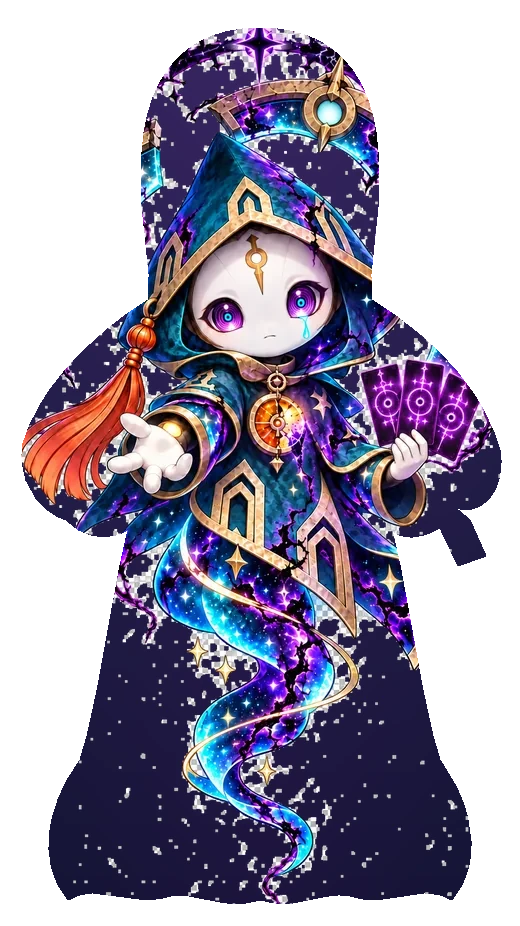
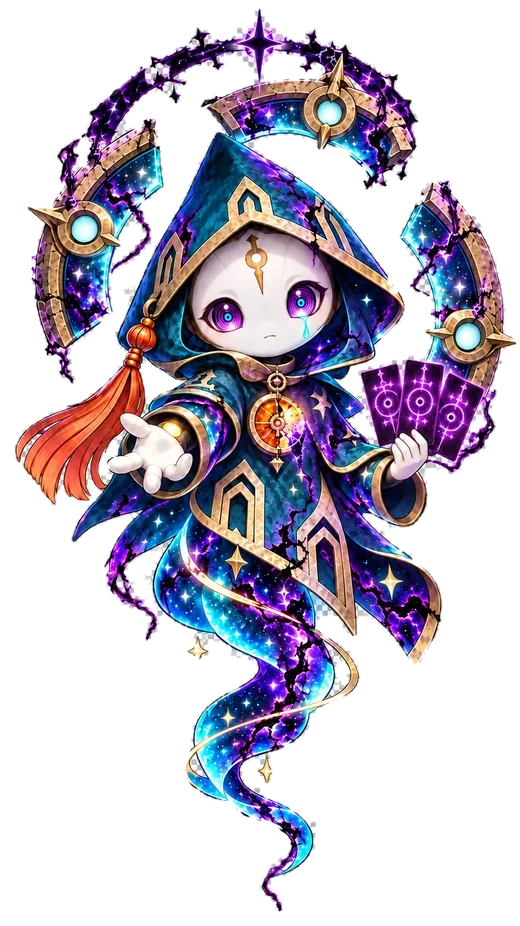
v207: オルビィ切り抜き作り直し（ゴミ除去・本来の輪郭）、顔ピース最後、進捗移行

diff --git a/index.html b/index.html
@@ -3264,7 +3264,8 @@ function TutorialScreen({pendingDiff,onFinish,onExit,trackNum,toggleMusic,coachN
 
 
 // ── MenuScreen ──
-const APP_VER='v206'; // v206(2026/09/14): 主役のピース（顔）は最後に出るように。late 指定がなければ中央上を含むピースを最後に回す
+const APP_VER='v207'; // v207(2026/09/14): オルビィの切り抜きを元画像から作り直し（白いゴミ・縁の除去、キャラ本来の輪郭でシルエット・6ピース・完成画像を統一）。顔ピースは最後。旧進捗は枚数を引き継ぎ
+// const APP_VER='v206'; // v206(2026/09/14): 主役のピース（顔）は最後に出るように。late 指定がなければ中央上を含むピースを最後に回す
 // const APP_VER='v205'; // v205(2026/09/14): パネル選択画面（ホーム「パズル」→好きなステージを選ぶ、進捗と獲得形が見える）。同梱素材 tenkuru_puzzle_6 を STAGE 2 として追加（3×2の1枚絵、薄い枠つき表示）
 // const APP_VER='v204'; // v204(2026/09/14): v202で誤って消したパネル画面のCSS（ピース配置・落下・ボタン・BOSS表示）を復旧
 // const APP_VER='v203'; // v203(2026/09/14): PWA対応（manifest.json・アイコン・全画面表示）。ホーム画面に追加でアプリとして起動
@@ -4139,24 +4140,27 @@ const PANELS=[
     {id:'piece_06',x:963,y:443,w:485,h:643,path:'M 965 543 L 965 792 L 971 791 L 982 781 L 995 773 L 1016 772 L 1031 778 L 1040 786 L 1046 796 L 1049 806 L 1049 822 L 1044 836 L 1035 847 L 1023 854 L 1016 856 L 995 855 L 986 850 L 971 837 L 965 836 L 965 1085 L 1447 1085 L 1447 543 L 1228 543 L 1227 539 L 1245 515 L 1248 503 L 1247 490 L 1241 476 L 1235 469 L 1221 461 L 1212 459 L 1195 460 L 1183 465 L 1172 475 L 1166 488 L 1165 508 L 1167 514 L 1173 524 L 1184 536 L 1186 541 L 1185 543 Z'}
   ]},
   // v198 1ステージ＝道中6戦（ピース6枚）＋ボス1戦。絵に描かれたキャラがボス
-  // v199 ver2：ピースの形を作り直した（6枚の外周がキャラのシルエット：大きなフード／横に広がる袖／片手のカード／煙のように流れる裾）
-  //      ピース番号の意味が変わるので保存キーを ver2 に上げた（ver1の進捗は残るが使わない）。仮素材：既存のオルビィ立ち絵
-  {id:'panel_03',ver:2,dir:'img/panel_03/',w:520,h:926,bossName:'オルビィ',
-   sil:'M 260.0 28.0 L 243.1 28.9 L 227.4 31.5 L 212.9 35.8 L 199.6 41.9 L 187.7 49.6 L 177.0 59.0 L 167.7 70.1 L 159.7 82.8 L 153.1 97.2 L 148.0 113.2 L 144.2 130.8 L 141.4 158.6 L 141.7 204.3 L 149.1 274.7 L 148.0 300.0 L 123.5 316.6 L 105.1 331.1 L 81.2 352.9 L 64.6 370.9 L 49.6 390.3 L 40.8 403.9 L 29.7 425.2 L 22.9 443.8 L 21.5 459.7 L 25.8 479.8 L 36.0 498.2 L 47.7 510.2 L 58.3 516.9 L 66.0 520.0 L 78.4 530.0 L 92.1 535.3 L 100.6 536.5 L 111.5 535.9 L 119.1 534.1 L 128.0 530.0 L 119.6 567.2 L 97.3 689.3 L 87.1 735.8 L 80.0 760.0 L 66.3 781.5 L 58.2 799.1 L 52.4 817.5 L 50.0 830.0 L 48.9 848.7 L 51.3 866.9 L 57.5 884.1 L 68.0 900.0 L 79.9 894.7 L 91.8 892.9 L 146.2 899.9 L 160.2 898.6 L 173.7 895.4 L 184.3 895.0 L 221.9 902.4 L 233.3 903.6 L 245.9 903.0 L 260.0 900.0 L 274.1 903.0 L 290.6 903.4 L 325.6 896.4 L 339.2 894.9 L 350.0 896.0 L 364.6 899.4 L 378.3 899.7 L 424.2 892.9 L 440.1 894.7 L 452.0 900.0 L 462.5 884.1 L 468.7 866.9 L 470.7 854.8 L 471.1 842.5 L 467.6 817.5 L 464.0 805.2 L 456.6 787.2 L 440.0 760.0 L 432.9 735.8 L 422.7 689.3 L 400.4 567.2 L 392.0 530.0 L 400.1 535.6 L 411.5 537.2 L 425.2 534.8 L 440.0 528.0 L 458.0 566.0 L 486.0 556.0 L 470.0 520.0 L 452.0 505.0 L 459.6 509.0 L 471.2 509.3 L 480.1 505.9 L 488.4 499.4 L 495.1 489.8 L 499.6 477.3 L 501.1 461.9 L 500.0 450.0 L 494.2 432.9 L 482.8 408.9 L 473.6 393.9 L 457.9 372.9 L 440.6 353.9 L 422.1 336.7 L 396.8 316.7 L 372.0 300.0 L 370.9 274.7 L 378.3 204.3 L 378.6 158.6 L 375.8 130.8 L 372.0 113.2 L 366.9 97.2 L 360.3 82.8 L 352.3 70.1 L 343.0 59.0 L 332.3 49.6 L 320.4 41.9 L 307.1 35.8 L 292.6 31.5 L 276.9 28.9 Z',
+  // v207 ver3：オルビィの元画像から白いゴミと縁を落とした透過を作り、その輪郭で6分割（フード先端・顔・手とカード・流れる裾が輪郭に出る）
+  //      顔のピース(2)は最後。ver2 の進捗は枚数だけ引き継ぐ（pzState の移行）
+  {id:'panel_03',ver:3,migrateFrom:2,dir:'img/panel_03/',w:520,h:926,bossName:'オルビィ',late:[2],
+   sil:'M 258.0 8.0 L 254.0 11.0 L 256.0 20.0 L 246.0 29.0 L 238.0 27.0 L 236.0 29.0 L 236.0 36.0 L 233.0 35.0 L 229.0 39.0 L 226.0 38.0 L 224.0 40.0 L 220.0 40.0 L 217.0 38.0 L 213.0 40.0 L 211.0 38.0 L 210.0 33.0 L 207.0 30.0 L 201.0 30.0 L 197.0 27.0 L 196.0 33.0 L 190.0 38.0 L 188.0 42.0 L 192.0 45.0 L 191.0 46.0 L 181.0 46.0 L 176.0 48.0 L 172.0 53.0 L 166.0 54.0 L 161.0 58.0 L 158.0 58.0 L 156.0 56.0 L 150.0 56.0 L 150.0 64.0 L 148.0 67.0 L 139.0 66.0 L 139.0 69.0 L 134.0 75.0 L 130.0 76.0 L 130.0 78.0 L 120.0 87.0 L 113.0 90.0 L 106.0 99.0 L 99.0 102.0 L 94.0 109.0 L 89.0 111.0 L 91.0 120.0 L 86.0 128.0 L 86.0 131.0 L 81.0 134.0 L 81.0 137.0 L 90.0 144.0 L 88.0 148.0 L 89.0 152.0 L 87.0 154.0 L 86.0 165.0 L 83.0 167.0 L 77.0 165.0 L 77.0 158.0 L 79.0 154.0 L 75.0 152.0 L 74.0 149.0 L 77.0 147.0 L 80.0 141.0 L 79.0 138.0 L 72.0 139.0 L 67.0 145.0 L 59.0 150.0 L 57.0 157.0 L 62.0 164.0 L 59.0 180.0 L 61.0 183.0 L 63.0 182.0 L 65.0 184.0 L 63.0 189.0 L 59.0 192.0 L 60.0 195.0 L 57.0 196.0 L 53.0 201.0 L 52.0 207.0 L 27.0 207.0 L 29.0 211.0 L 43.0 222.0 L 41.0 235.0 L 37.0 239.0 L 38.0 242.0 L 36.0 253.0 L 31.0 256.0 L 31.0 259.0 L 34.0 260.0 L 34.0 265.0 L 30.0 269.0 L 32.0 275.0 L 34.0 276.0 L 31.0 278.0 L 31.0 280.0 L 35.0 288.0 L 35.0 307.0 L 38.0 319.0 L 40.0 321.0 L 42.0 333.0 L 47.0 344.0 L 44.0 348.0 L 45.0 354.0 L 47.0 356.0 L 55.0 354.0 L 59.0 357.0 L 59.0 374.0 L 61.0 378.0 L 66.0 378.0 L 70.0 383.0 L 73.0 383.0 L 75.0 376.0 L 68.0 368.0 L 68.0 366.0 L 71.0 363.0 L 71.0 359.0 L 67.0 357.0 L 71.0 350.0 L 70.0 346.0 L 73.0 345.0 L 76.0 341.0 L 78.0 341.0 L 81.0 337.0 L 85.0 337.0 L 88.0 333.0 L 92.0 333.0 L 93.0 329.0 L 101.0 322.0 L 99.0 318.0 L 113.0 311.0 L 114.0 305.0 L 111.0 303.0 L 111.0 286.0 L 109.0 285.0 L 109.0 274.0 L 111.0 274.0 L 120.0 265.0 L 127.0 264.0 L 130.0 260.0 L 134.0 259.0 L 136.0 256.0 L 139.0 256.0 L 140.0 252.0 L 145.0 248.0 L 145.0 246.0 L 152.0 243.0 L 151.0 228.0 L 148.0 223.0 L 144.0 220.0 L 144.0 214.0 L 140.0 208.0 L 141.0 202.0 L 138.0 200.0 L 140.0 198.0 L 144.0 200.0 L 150.0 199.0 L 151.0 196.0 L 164.0 185.0 L 162.0 175.0 L 163.0 168.0 L 160.0 164.0 L 160.0 147.0 L 156.0 144.0 L 156.0 139.0 L 158.0 137.0 L 157.0 130.0 L 155.0 128.0 L 156.0 120.0 L 153.0 118.0 L 145.0 118.0 L 140.0 127.0 L 140.0 130.0 L 130.0 127.0 L 127.0 129.0 L 125.0 124.0 L 125.0 115.0 L 134.0 106.0 L 135.0 102.0 L 139.0 101.0 L 143.0 95.0 L 151.0 90.0 L 154.0 90.0 L 156.0 92.0 L 160.0 90.0 L 166.0 94.0 L 169.0 93.0 L 169.0 97.0 L 171.0 100.0 L 177.0 103.0 L 180.0 98.0 L 180.0 94.0 L 176.0 91.0 L 176.0 85.0 L 184.0 85.0 L 186.0 83.0 L 185.0 80.0 L 179.0 77.0 L 179.0 74.0 L 184.0 72.0 L 193.0 65.0 L 199.0 66.0 L 205.0 62.0 L 208.0 66.0 L 211.0 64.0 L 215.0 69.0 L 218.0 70.0 L 224.0 64.0 L 223.0 56.0 L 225.0 54.0 L 230.0 55.0 L 235.0 52.0 L 236.0 55.0 L 241.0 56.0 L 242.0 61.0 L 246.0 62.0 L 249.0 67.0 L 252.0 67.0 L 253.0 72.0 L 257.0 74.0 L 257.0 78.0 L 253.0 80.0 L 252.0 84.0 L 239.0 88.0 L 221.0 97.0 L 215.0 96.0 L 213.0 98.0 L 205.0 99.0 L 202.0 101.0 L 200.0 105.0 L 201.0 107.0 L 204.0 107.0 L 211.0 112.0 L 211.0 115.0 L 220.0 124.0 L 222.0 130.0 L 215.0 133.0 L 214.0 137.0 L 211.0 139.0 L 210.0 144.0 L 207.0 146.0 L 205.0 155.0 L 198.0 162.0 L 198.0 168.0 L 196.0 169.0 L 195.0 175.0 L 192.0 179.0 L 192.0 182.0 L 189.0 185.0 L 186.0 195.0 L 182.0 200.0 L 182.0 203.0 L 179.0 205.0 L 178.0 209.0 L 173.0 214.0 L 173.0 217.0 L 162.0 234.0 L 160.0 240.0 L 154.0 245.0 L 155.0 247.0 L 153.0 253.0 L 146.0 264.0 L 146.0 267.0 L 143.0 271.0 L 142.0 277.0 L 139.0 280.0 L 138.0 284.0 L 130.0 285.0 L 128.0 288.0 L 123.0 289.0 L 124.0 293.0 L 129.0 295.0 L 127.0 302.0 L 128.0 307.0 L 124.0 319.0 L 119.0 325.0 L 118.0 329.0 L 114.0 332.0 L 118.0 345.0 L 120.0 346.0 L 120.0 348.0 L 122.0 347.0 L 126.0 352.0 L 122.0 360.0 L 122.0 364.0 L 118.0 366.0 L 116.0 372.0 L 102.0 386.0 L 94.0 392.0 L 90.0 393.0 L 86.0 398.0 L 80.0 402.0 L 67.0 404.0 L 65.0 408.0 L 56.0 412.0 L 51.0 411.0 L 47.0 415.0 L 36.0 420.0 L 33.0 424.0 L 29.0 425.0 L 26.0 429.0 L 22.0 430.0 L 15.0 445.0 L 14.0 453.0 L 16.0 460.0 L 18.0 462.0 L 22.0 459.0 L 23.0 460.0 L 22.0 464.0 L 26.0 473.0 L 39.0 486.0 L 52.0 505.0 L 55.0 504.0 L 55.0 497.0 L 62.0 485.0 L 65.0 493.0 L 69.0 497.0 L 73.0 497.0 L 78.0 500.0 L 89.0 500.0 L 91.0 496.0 L 89.0 489.0 L 87.0 487.0 L 89.0 480.0 L 91.0 480.0 L 93.0 485.0 L 101.0 492.0 L 94.0 501.0 L 87.0 505.0 L 87.0 508.0 L 77.0 520.0 L 71.0 537.0 L 72.0 541.0 L 76.0 541.0 L 85.0 532.0 L 99.0 523.0 L 102.0 523.0 L 114.0 517.0 L 120.0 517.0 L 121.0 515.0 L 129.0 514.0 L 132.0 516.0 L 132.0 519.0 L 116.0 538.0 L 116.0 541.0 L 109.0 551.0 L 109.0 555.0 L 103.0 566.0 L 107.0 570.0 L 105.0 575.0 L 107.0 577.0 L 106.0 585.0 L 109.0 587.0 L 109.0 590.0 L 113.0 594.0 L 115.0 594.0 L 116.0 597.0 L 129.0 608.0 L 135.0 607.0 L 138.0 610.0 L 143.0 611.0 L 146.0 616.0 L 150.0 617.0 L 150.0 620.0 L 147.0 625.0 L 147.0 631.0 L 144.0 637.0 L 146.0 640.0 L 149.0 640.0 L 151.0 638.0 L 151.0 634.0 L 157.0 631.0 L 156.0 627.0 L 159.0 623.0 L 158.0 617.0 L 164.0 613.0 L 175.0 622.0 L 195.0 631.0 L 193.0 638.0 L 195.0 640.0 L 195.0 644.0 L 197.0 645.0 L 197.0 647.0 L 192.0 647.0 L 187.0 651.0 L 197.0 658.0 L 200.0 659.0 L 203.0 655.0 L 208.0 655.0 L 207.0 644.0 L 209.0 640.0 L 213.0 640.0 L 228.0 645.0 L 231.0 648.0 L 231.0 656.0 L 235.0 656.0 L 238.0 658.0 L 241.0 655.0 L 245.0 655.0 L 249.0 660.0 L 256.0 661.0 L 257.0 670.0 L 253.0 676.0 L 247.0 681.0 L 241.0 683.0 L 235.0 690.0 L 234.0 689.0 L 230.0 692.0 L 226.0 692.0 L 213.0 700.0 L 206.0 706.0 L 196.0 719.0 L 195.0 723.0 L 192.0 725.0 L 192.0 745.0 L 189.0 749.0 L 191.0 755.0 L 185.0 764.0 L 185.0 773.0 L 187.0 778.0 L 189.0 779.0 L 189.0 784.0 L 193.0 788.0 L 198.0 789.0 L 206.0 797.0 L 228.0 801.0 L 230.0 799.0 L 237.0 808.0 L 241.0 810.0 L 240.0 813.0 L 242.0 816.0 L 249.0 817.0 L 251.0 815.0 L 258.0 820.0 L 263.0 819.0 L 275.0 824.0 L 279.0 828.0 L 279.0 830.0 L 287.0 836.0 L 290.0 841.0 L 290.0 850.0 L 285.0 857.0 L 280.0 857.0 L 275.0 863.0 L 271.0 864.0 L 267.0 873.0 L 263.0 877.0 L 260.0 885.0 L 260.0 889.0 L 266.0 896.0 L 268.0 896.0 L 275.0 903.0 L 277.0 910.0 L 280.0 911.0 L 282.0 910.0 L 282.0 899.0 L 279.0 898.0 L 278.0 895.0 L 272.0 891.0 L 268.0 886.0 L 271.0 884.0 L 271.0 879.0 L 275.0 876.0 L 286.0 875.0 L 305.0 862.0 L 305.0 860.0 L 310.0 855.0 L 311.0 851.0 L 315.0 848.0 L 315.0 832.0 L 313.0 831.0 L 313.0 828.0 L 316.0 826.0 L 316.0 823.0 L 314.0 821.0 L 308.0 823.0 L 295.0 811.0 L 290.0 811.0 L 290.0 808.0 L 288.0 806.0 L 285.0 806.0 L 270.0 798.0 L 266.0 798.0 L 263.0 794.0 L 260.0 793.0 L 259.0 787.0 L 247.0 786.0 L 243.0 781.0 L 244.0 779.0 L 241.0 777.0 L 241.0 766.0 L 245.0 761.0 L 249.0 760.0 L 250.0 758.0 L 258.0 758.0 L 260.0 767.0 L 257.0 768.0 L 257.0 771.0 L 259.0 775.0 L 263.0 777.0 L 264.0 781.0 L 268.0 783.0 L 272.0 773.0 L 269.0 764.0 L 270.0 756.0 L 268.0 753.0 L 284.0 747.0 L 284.0 743.0 L 293.0 743.0 L 297.0 738.0 L 302.0 736.0 L 308.0 729.0 L 311.0 713.0 L 314.0 713.0 L 317.0 708.0 L 323.0 707.0 L 328.0 703.0 L 329.0 700.0 L 336.0 699.0 L 339.0 695.0 L 346.0 696.0 L 350.0 692.0 L 352.0 692.0 L 357.0 686.0 L 360.0 677.0 L 357.0 668.0 L 358.0 665.0 L 354.0 663.0 L 353.0 659.0 L 349.0 654.0 L 349.0 650.0 L 345.0 650.0 L 342.0 645.0 L 339.0 645.0 L 338.0 642.0 L 336.0 642.0 L 329.0 637.0 L 324.0 637.0 L 322.0 633.0 L 316.0 628.0 L 316.0 621.0 L 319.0 619.0 L 321.0 615.0 L 337.0 616.0 L 342.0 622.0 L 342.0 629.0 L 352.0 636.0 L 357.0 634.0 L 357.0 618.0 L 359.0 616.0 L 370.0 616.0 L 387.0 629.0 L 389.0 635.0 L 394.0 637.0 L 405.0 653.0 L 405.0 655.0 L 410.0 658.0 L 414.0 664.0 L 420.0 661.0 L 425.0 649.0 L 428.0 647.0 L 437.0 631.0 L 439.0 630.0 L 438.0 624.0 L 441.0 621.0 L 442.0 599.0 L 440.0 590.0 L 437.0 586.0 L 437.0 583.0 L 424.0 568.0 L 421.0 568.0 L 420.0 566.0 L 410.0 561.0 L 412.0 559.0 L 410.0 553.0 L 408.0 554.0 L 404.0 551.0 L 398.0 553.0 L 398.0 547.0 L 392.0 544.0 L 390.0 540.0 L 384.0 536.0 L 384.0 531.0 L 378.0 531.0 L 365.0 518.0 L 364.0 515.0 L 373.0 514.0 L 379.0 519.0 L 385.0 520.0 L 389.0 528.0 L 394.0 528.0 L 396.0 526.0 L 404.0 527.0 L 414.0 524.0 L 424.0 512.0 L 427.0 504.0 L 427.0 483.0 L 424.0 480.0 L 424.0 473.0 L 429.0 468.0 L 435.0 468.0 L 437.0 470.0 L 439.0 468.0 L 444.0 468.0 L 447.0 470.0 L 448.0 473.0 L 452.0 473.0 L 458.0 469.0 L 460.0 470.0 L 461.0 463.0 L 465.0 458.0 L 478.0 452.0 L 480.0 449.0 L 485.0 448.0 L 485.0 441.0 L 495.0 426.0 L 490.0 416.0 L 489.0 410.0 L 492.0 408.0 L 492.0 405.0 L 490.0 403.0 L 495.0 396.0 L 496.0 390.0 L 491.0 390.0 L 490.0 387.0 L 495.0 377.0 L 498.0 365.0 L 502.0 363.0 L 501.0 350.0 L 505.0 349.0 L 506.0 347.0 L 514.0 345.0 L 516.0 342.0 L 511.0 335.0 L 508.0 335.0 L 504.0 332.0 L 503.0 325.0 L 505.0 309.0 L 501.0 294.0 L 500.0 279.0 L 497.0 271.0 L 495.0 270.0 L 496.0 266.0 L 489.0 249.0 L 489.0 244.0 L 487.0 243.0 L 482.0 233.0 L 483.0 231.0 L 481.0 230.0 L 481.0 224.0 L 475.0 222.0 L 476.0 217.0 L 474.0 215.0 L 465.0 213.0 L 465.0 209.0 L 452.0 194.0 L 449.0 180.0 L 438.0 181.0 L 436.0 183.0 L 431.0 182.0 L 427.0 183.0 L 426.0 186.0 L 422.0 189.0 L 420.0 195.0 L 424.0 197.0 L 419.0 200.0 L 418.0 204.0 L 416.0 203.0 L 413.0 206.0 L 399.0 235.0 L 402.0 242.0 L 406.0 245.0 L 406.0 248.0 L 410.0 250.0 L 409.0 254.0 L 416.0 258.0 L 420.0 267.0 L 416.0 270.0 L 417.0 274.0 L 415.0 277.0 L 412.0 278.0 L 412.0 282.0 L 409.0 284.0 L 410.0 287.0 L 415.0 292.0 L 421.0 291.0 L 427.0 297.0 L 430.0 295.0 L 432.0 296.0 L 430.0 298.0 L 433.0 302.0 L 434.0 307.0 L 429.0 313.0 L 436.0 320.0 L 433.0 322.0 L 434.0 330.0 L 432.0 331.0 L 427.0 329.0 L 425.0 331.0 L 425.0 333.0 L 428.0 334.0 L 429.0 338.0 L 431.0 339.0 L 430.0 346.0 L 427.0 349.0 L 425.0 355.0 L 418.0 360.0 L 415.0 359.0 L 413.0 355.0 L 409.0 355.0 L 406.0 359.0 L 392.0 359.0 L 391.0 362.0 L 386.0 365.0 L 380.0 364.0 L 375.0 368.0 L 368.0 366.0 L 366.0 369.0 L 358.0 370.0 L 358.0 375.0 L 361.0 379.0 L 362.0 384.0 L 361.0 395.0 L 355.0 396.0 L 337.0 381.0 L 348.0 374.0 L 351.0 366.0 L 366.0 363.0 L 376.0 355.0 L 375.0 346.0 L 381.0 339.0 L 380.0 336.0 L 385.0 334.0 L 395.0 324.0 L 397.0 324.0 L 403.0 315.0 L 403.0 298.0 L 398.0 291.0 L 395.0 293.0 L 392.0 291.0 L 392.0 285.0 L 390.0 285.0 L 387.0 282.0 L 388.0 274.0 L 380.0 265.0 L 379.0 261.0 L 373.0 256.0 L 357.0 234.0 L 357.0 232.0 L 348.0 224.0 L 348.0 219.0 L 343.0 216.0 L 343.0 213.0 L 339.0 211.0 L 337.0 207.0 L 333.0 206.0 L 330.0 200.0 L 327.0 200.0 L 312.0 186.0 L 310.0 186.0 L 298.0 176.0 L 296.0 176.0 L 291.0 170.0 L 284.0 166.0 L 280.0 166.0 L 268.0 158.0 L 265.0 158.0 L 263.0 153.0 L 259.0 153.0 L 258.0 150.0 L 254.0 148.0 L 254.0 142.0 L 261.0 137.0 L 267.0 138.0 L 268.0 136.0 L 275.0 136.0 L 278.0 134.0 L 291.0 134.0 L 294.0 136.0 L 299.0 135.0 L 302.0 138.0 L 307.0 137.0 L 316.0 140.0 L 316.0 147.0 L 318.0 149.0 L 324.0 149.0 L 327.0 145.0 L 335.0 147.0 L 339.0 146.0 L 343.0 149.0 L 349.0 150.0 L 349.0 156.0 L 355.0 161.0 L 356.0 164.0 L 361.0 167.0 L 364.0 166.0 L 366.0 168.0 L 365.0 172.0 L 367.0 179.0 L 364.0 179.0 L 362.0 182.0 L 365.0 189.0 L 368.0 189.0 L 370.0 187.0 L 371.0 188.0 L 374.0 183.0 L 378.0 183.0 L 380.0 186.0 L 386.0 186.0 L 387.0 180.0 L 384.0 178.0 L 384.0 173.0 L 387.0 171.0 L 393.0 171.0 L 394.0 167.0 L 400.0 169.0 L 396.0 172.0 L 400.0 180.0 L 402.0 180.0 L 406.0 176.0 L 407.0 172.0 L 405.0 169.0 L 408.0 163.0 L 407.0 159.0 L 413.0 157.0 L 412.0 152.0 L 416.0 148.0 L 416.0 141.0 L 412.0 125.0 L 418.0 120.0 L 416.0 114.0 L 410.0 109.0 L 409.0 106.0 L 411.0 100.0 L 404.0 98.0 L 394.0 88.0 L 394.0 83.0 L 397.0 80.0 L 398.0 76.0 L 397.0 74.0 L 393.0 75.0 L 391.0 73.0 L 382.0 73.0 L 378.0 71.0 L 370.0 64.0 L 353.0 56.0 L 352.0 53.0 L 349.0 51.0 L 349.0 48.0 L 345.0 44.0 L 340.0 47.0 L 336.0 45.0 L 332.0 40.0 L 330.0 40.0 L 326.0 44.0 L 322.0 45.0 L 315.0 39.0 L 315.0 29.0 L 309.0 30.0 L 304.0 33.0 L 304.0 41.0 L 294.0 41.0 L 287.0 35.0 L 277.0 33.0 L 276.0 28.0 L 271.0 27.0 L 269.0 22.0 L 264.0 20.0 L 265.0 17.0 L 261.0 14.0 L 261.0 11.0 Z M 481.0 415.0 L 483.0 421.0 L 486.0 422.0 L 482.0 427.0 L 480.0 427.0 L 476.0 432.0 L 471.0 431.0 L 471.0 422.0 L 476.0 419.0 L 477.0 415.0 Z M 350.0 419.0 L 354.0 418.0 L 356.0 414.0 L 362.0 413.0 L 362.0 411.0 L 365.0 410.0 L 365.0 418.0 L 369.0 421.0 L 369.0 425.0 L 373.0 428.0 L 374.0 436.0 L 366.0 437.0 L 359.0 430.0 L 357.0 430.0 L 355.0 426.0 L 351.0 424.0 Z M 339.0 660.0 L 344.0 661.0 L 349.0 671.0 L 346.0 675.0 L 349.0 680.0 L 345.0 684.0 L 342.0 684.0 L 340.0 680.0 L 336.0 679.0 L 337.0 677.0 L 335.0 667.0 Z M 261.0 72.0 L 262.0 66.0 L 265.0 62.0 L 268.0 61.0 L 268.0 57.0 L 271.0 56.0 L 275.0 51.0 L 281.0 54.0 L 284.0 52.0 L 287.0 55.0 L 292.0 55.0 L 296.0 53.0 L 299.0 56.0 L 303.0 57.0 L 305.0 62.0 L 300.0 64.0 L 299.0 67.0 L 302.0 68.0 L 305.0 72.0 L 312.0 68.0 L 312.0 64.0 L 315.0 65.0 L 317.0 63.0 L 321.0 66.0 L 320.0 70.0 L 322.0 71.0 L 321.0 75.0 L 316.0 80.0 L 315.0 78.0 L 309.0 78.0 L 308.0 80.0 L 305.0 80.0 L 304.0 78.0 L 299.0 78.0 L 298.0 80.0 L 289.0 80.0 L 288.0 78.0 L 286.0 78.0 L 282.0 81.0 L 274.0 80.0 L 273.0 82.0 L 263.0 81.0 L 262.0 80.0 L 264.0 76.0 Z M 141.0 365.0 L 144.0 362.0 L 149.0 362.0 L 150.0 365.0 L 157.0 367.0 L 160.0 371.0 L 167.0 373.0 L 172.0 378.0 L 180.0 380.0 L 181.0 382.0 L 170.0 390.0 L 166.0 391.0 L 164.0 394.0 L 159.0 393.0 L 153.0 398.0 L 148.0 398.0 L 145.0 395.0 L 145.0 387.0 L 143.0 383.0 L 142.0 373.0 L 140.0 371.0 Z M 148.0 551.0 L 161.0 552.0 L 161.0 555.0 L 159.0 556.0 L 159.0 559.0 L 155.0 562.0 L 155.0 567.0 L 151.0 570.0 L 151.0 573.0 L 144.0 575.0 L 144.0 580.0 L 150.0 581.0 L 149.0 584.0 L 151.0 585.0 L 154.0 597.0 L 153.0 602.0 L 156.0 605.0 L 155.0 612.0 L 153.0 612.0 L 148.0 606.0 L 143.0 605.0 L 145.0 599.0 L 140.0 598.0 L 137.0 595.0 L 133.0 595.0 L 134.0 582.0 L 130.0 581.0 L 124.0 573.0 L 124.0 571.0 L 127.0 569.0 L 127.0 565.0 L 135.0 557.0 Z M 139.0 223.0 L 142.0 232.0 L 145.0 234.0 L 145.0 236.0 L 141.0 238.0 L 126.0 255.0 L 123.0 255.0 L 120.0 260.0 L 113.0 262.0 L 112.0 259.0 L 114.0 253.0 L 120.0 246.0 L 120.0 244.0 L 117.0 241.0 L 119.0 240.0 L 118.0 238.0 L 123.0 228.0 L 125.0 226.0 L 130.0 226.0 L 132.0 222.0 L 136.0 224.0 Z M 115.0 440.0 L 118.0 445.0 L 117.0 453.0 L 115.0 455.0 L 116.0 457.0 L 114.0 458.0 L 113.0 456.0 L 111.0 456.0 L 106.0 459.0 L 106.0 463.0 L 109.0 464.0 L 109.0 471.0 L 106.0 475.0 L 101.0 475.0 L 98.0 471.0 L 100.0 460.0 L 103.0 458.0 L 103.0 454.0 L 106.0 452.0 L 108.0 445.0 L 112.0 440.0 Z',
    ladder:[{st:3},{st:4,gk:'hour'},{st:5,gk:'mist'},{st:6,gk:'chain'},{st:7,gk:'silence'},{st:8,gk:'heavy'}],
    boss:{st:13,gk:'mix'},
    boost:{speed:0.6,diff:'master'},
    pieces:[
-    {id:'piece_01',x:138,y:26,w:244,h:215,path:'M 260.0 28.0 L 243.1 28.9 L 227.4 31.5 L 212.9 35.8 L 199.6 41.9 L 187.7 49.6 L 177.0 59.0 L 167.7 70.1 L 159.7 82.8 L 153.1 97.2 L 148.0 113.2 L 144.2 130.8 L 142.0 150.0 L 140.9 190.1 L 145.3 238.7 L 215.0 222.8 L 237.5 220.0 L 260.0 219.0 L 282.5 220.0 L 305.0 222.8 L 374.7 238.7 L 379.1 190.1 L 378.0 150.0 L 375.8 130.8 L 372.0 113.2 L 366.9 97.2 L 360.3 82.8 L 352.3 70.1 L 343.0 59.0 L 332.3 49.6 L 320.4 41.9 L 307.1 35.8 L 292.6 31.5 L 276.9 28.9 Z'},
-    {id:'piece_02',x:71,y:217,w:361,h:152,path:'M 145.3 238.7 L 149.1 274.7 L 148.0 300.0 L 123.5 316.6 L 105.1 331.1 L 73.3 361.1 L 140.0 340.6 L 162.5 335.7 L 177.5 334.2 L 192.5 334.2 L 215.0 337.1 L 237.5 342.7 L 290.0 359.4 L 312.5 364.3 L 327.5 365.8 L 342.5 365.8 L 365.0 362.9 L 387.5 357.3 L 429.8 343.6 L 403.1 321.4 L 372.0 300.0 L 370.9 274.7 L 374.7 238.7 L 305.0 222.8 L 282.5 220.0 L 260.0 219.0 L 237.5 220.0 L 215.0 222.8 Z'},
-    {id:'piece_03',x:19,y:332,w:257,h:226,path:'M 73.3 361.1 L 54.4 383.7 L 40.8 403.9 L 29.7 425.2 L 22.9 443.8 L 21.4 455.6 L 23.3 471.9 L 29.2 487.5 L 38.7 501.5 L 51.1 512.7 L 66.0 520.0 L 75.7 528.4 L 86.5 533.7 L 97.8 536.2 L 108.8 536.3 L 119.1 534.1 L 128.0 530.0 L 122.0 555.5 L 155.0 545.4 L 170.0 542.9 L 185.0 542.0 L 200.0 542.9 L 215.0 545.4 L 244.8 554.4 L 247.0 539.4 L 250.4 527.4 L 270.3 475.3 L 273.0 463.2 L 274.0 451.2 L 273.3 439.1 L 270.9 427.0 L 251.1 370.4 L 248.4 358.3 L 247.3 345.8 L 222.5 338.7 L 207.5 335.7 L 185.0 334.0 L 170.0 334.8 L 140.0 340.6 Z'},
-    {id:'piece_04',x:242,y:341,w:262,h:240,path:'M 245.0 554.4 L 282.5 568.2 L 305.0 574.6 L 327.5 577.8 L 350.0 577.1 L 372.5 572.7 L 399.7 563.8 L 392.0 530.0 L 400.1 535.6 L 411.5 537.2 L 425.2 534.8 L 440.0 528.0 L 458.0 566.0 L 486.0 556.0 L 470.0 520.0 L 452.0 505.0 L 459.6 509.0 L 471.2 509.3 L 480.1 505.9 L 488.4 499.4 L 495.1 489.8 L 499.6 477.3 L 501.1 461.9 L 500.0 450.0 L 490.7 424.7 L 473.6 393.9 L 452.3 366.4 L 429.8 343.6 L 372.5 361.3 L 350.0 365.2 L 335.0 366.0 L 320.0 365.2 L 297.5 361.3 L 247.3 345.8 L 248.4 358.3 L 251.1 370.4 L 270.9 427.0 L 273.3 439.1 L 274.0 451.2 L 273.0 463.2 L 270.3 475.3 L 250.4 527.4 L 246.1 543.4 Z'},
-    {id:'piece_05',x:46,y:540,w:239,h:366,path:'M 122.0 555.5 L 97.3 689.3 L 87.1 735.8 L 80.0 760.0 L 66.3 781.5 L 58.2 799.1 L 51.0 823.8 L 48.9 842.5 L 49.3 854.8 L 52.9 872.8 L 57.5 884.1 L 68.0 900.0 L 79.9 894.7 L 95.8 892.9 L 141.7 899.7 L 155.4 899.4 L 170.0 896.0 L 180.8 894.9 L 194.4 896.4 L 229.4 903.4 L 245.9 903.0 L 260.0 900.0 L 282.3 903.6 L 275.4 877.6 L 252.4 821.1 L 247.0 795.7 L 246.5 783.0 L 248.6 763.8 L 253.5 744.4 L 270.1 692.7 L 273.2 673.4 L 273.5 660.6 L 272.2 647.9 L 267.6 628.9 L 244.6 572.4 L 238.8 552.3 L 207.5 544.0 L 185.0 542.0 L 170.0 542.9 L 155.0 545.4 Z'},
-    {id:'piece_06',x:236,y:550,w:238,h:356,path:'M 282.3 903.6 L 298.1 902.4 L 335.7 895.0 L 346.3 895.4 L 359.8 898.6 L 373.8 899.9 L 424.2 892.9 L 440.1 894.7 L 452.0 900.0 L 459.5 889.6 L 467.1 872.8 L 469.9 860.9 L 471.1 848.7 L 470.7 836.2 L 467.6 817.5 L 464.0 805.2 L 456.6 787.2 L 440.0 760.0 L 432.9 735.8 L 422.7 689.3 L 399.7 563.8 L 380.0 570.6 L 357.5 576.0 L 342.5 577.8 L 327.5 577.8 L 312.5 576.0 L 290.0 570.6 L 238.8 552.3 L 244.6 572.4 L 267.6 628.9 L 272.2 647.9 L 273.5 660.6 L 273.2 673.4 L 270.1 692.7 L 253.5 744.4 L 248.6 763.8 L 246.5 783.0 L 247.0 795.7 L 252.4 821.1 L 275.4 877.6 Z'}
+    {id:'piece_01',x:56,y:8,w:363,h:187,path:'M 258.0 8.0 L 254.0 11.0 L 256.0 20.0 L 246.0 29.0 L 238.0 27.0 L 236.0 29.0 L 236.0 36.0 L 233.0 35.0 L 229.0 39.0 L 226.0 38.0 L 224.0 40.0 L 220.0 40.0 L 217.0 38.0 L 213.0 40.0 L 211.0 38.0 L 210.0 33.0 L 207.0 30.0 L 201.0 30.0 L 197.0 27.0 L 196.0 33.0 L 190.0 38.0 L 188.0 42.0 L 192.0 45.0 L 191.0 46.0 L 181.0 46.0 L 176.0 48.0 L 172.0 53.0 L 166.0 54.0 L 161.0 58.0 L 158.0 58.0 L 156.0 56.0 L 150.0 56.0 L 150.0 64.0 L 148.0 67.0 L 139.0 66.0 L 139.0 69.0 L 134.0 75.0 L 130.0 76.0 L 130.0 78.0 L 120.0 87.0 L 113.0 90.0 L 106.0 99.0 L 99.0 102.0 L 94.0 109.0 L 89.0 111.0 L 91.0 120.0 L 86.0 128.0 L 86.0 131.0 L 81.0 134.0 L 81.0 137.0 L 90.0 144.0 L 88.0 148.0 L 89.0 152.0 L 87.0 154.0 L 86.0 165.0 L 83.0 167.0 L 77.0 165.0 L 77.0 158.0 L 79.0 154.0 L 75.0 152.0 L 74.0 149.0 L 77.0 147.0 L 80.0 141.0 L 79.0 138.0 L 72.0 139.0 L 67.0 145.0 L 59.0 150.0 L 57.0 157.0 L 62.0 164.0 L 59.0 180.0 L 61.0 183.0 L 63.0 182.0 L 65.0 184.0 L 63.0 189.0 L 59.0 192.0 L 59.4 193.3 L 83.9 193.3 L 103.3 191.7 L 129.2 187.8 L 163.1 180.7 L 162.0 175.0 L 163.0 168.0 L 160.0 164.0 L 160.0 147.0 L 156.0 144.0 L 156.0 139.0 L 158.0 137.0 L 157.0 130.0 L 155.0 128.0 L 156.0 120.0 L 153.0 118.0 L 145.0 118.0 L 140.0 127.0 L 140.0 130.0 L 130.0 127.0 L 127.0 129.0 L 125.0 124.0 L 125.0 115.0 L 134.0 106.0 L 135.0 102.0 L 139.0 101.0 L 143.0 95.0 L 151.0 90.0 L 154.0 90.0 L 156.0 92.0 L 160.0 90.0 L 166.0 94.0 L 169.0 93.0 L 169.0 97.0 L 171.0 100.0 L 177.0 103.0 L 180.0 98.0 L 180.0 94.0 L 176.0 91.0 L 176.0 85.0 L 184.0 85.0 L 186.0 83.0 L 185.0 80.0 L 179.0 77.0 L 179.0 74.0 L 184.0 72.0 L 193.0 65.0 L 199.0 66.0 L 205.0 62.0 L 208.0 66.0 L 211.0 64.0 L 215.0 69.0 L 218.0 70.0 L 224.0 64.0 L 223.0 56.0 L 225.0 54.0 L 230.0 55.0 L 235.0 52.0 L 236.0 55.0 L 241.0 56.0 L 242.0 61.0 L 246.0 62.0 L 249.0 67.0 L 252.0 67.0 L 253.0 72.0 L 257.0 74.0 L 257.0 78.0 L 253.0 80.0 L 252.0 84.0 L 239.0 88.0 L 221.0 97.0 L 215.0 96.0 L 213.0 98.0 L 205.0 99.0 L 202.0 101.0 L 200.0 105.0 L 201.0 107.0 L 204.0 107.0 L 211.0 112.0 L 211.0 115.0 L 220.0 124.0 L 222.0 130.0 L 215.0 133.0 L 214.0 137.0 L 211.0 139.0 L 210.0 144.0 L 207.0 146.0 L 205.0 155.0 L 198.0 162.0 L 198.0 168.0 L 196.0 169.0 L 195.2 173.6 L 219.7 169.2 L 239.1 166.8 L 258.5 165.6 L 280.0 166.0 L 268.0 158.0 L 265.0 158.0 L 263.0 153.0 L 259.0 153.0 L 258.0 150.0 L 254.0 148.0 L 254.0 142.0 L 261.0 137.0 L 267.0 138.0 L 268.0 136.0 L 275.0 136.0 L 278.0 134.0 L 291.0 134.0 L 294.0 136.0 L 299.0 135.0 L 302.0 138.0 L 307.0 137.0 L 316.0 140.0 L 316.0 147.0 L 318.0 149.0 L 324.0 149.0 L 327.0 145.0 L 335.0 147.0 L 339.0 146.0 L 343.0 149.0 L 349.0 150.0 L 349.0 156.0 L 355.0 161.0 L 356.0 164.0 L 361.0 167.0 L 364.0 166.0 L 366.0 168.0 L 365.0 172.0 L 367.0 179.0 L 364.0 179.0 L 363.4 179.9 L 386.2 184.9 L 387.0 180.0 L 384.0 178.0 L 384.0 173.0 L 387.0 171.0 L 393.0 171.0 L 394.0 167.0 L 400.0 169.0 L 396.0 172.0 L 400.0 180.0 L 402.0 180.0 L 406.0 176.0 L 407.0 172.0 L 405.0 169.0 L 408.0 163.0 L 407.0 159.0 L 413.0 157.0 L 412.0 152.0 L 416.0 148.0 L 416.0 141.0 L 412.0 125.0 L 418.0 120.0 L 416.0 114.0 L 410.0 109.0 L 409.0 106.0 L 411.0 100.0 L 404.0 98.0 L 394.0 88.0 L 394.0 83.0 L 397.0 80.0 L 398.0 76.0 L 397.0 74.0 L 393.0 75.0 L 391.0 73.0 L 382.0 73.0 L 378.0 71.0 L 370.0 64.0 L 353.0 56.0 L 352.0 53.0 L 349.0 51.0 L 349.0 48.0 L 345.0 44.0 L 340.0 47.0 L 336.0 45.0 L 332.0 40.0 L 330.0 40.0 L 326.0 44.0 L 322.0 45.0 L 315.0 39.0 L 315.0 29.0 L 309.0 30.0 L 304.0 33.0 L 304.0 41.0 L 294.0 41.0 L 287.0 35.0 L 277.0 33.0 L 276.0 28.0 L 271.0 27.0 L 269.0 22.0 L 264.0 20.0 L 265.0 17.0 L 261.0 14.0 L 261.0 11.0 Z M 261.0 72.0 L 262.0 66.0 L 265.0 62.0 L 268.0 61.0 L 268.0 57.0 L 271.0 56.0 L 275.0 51.0 L 281.0 54.0 L 284.0 52.0 L 287.0 55.0 L 292.0 55.0 L 296.0 53.0 L 299.0 56.0 L 303.0 57.0 L 305.0 62.0 L 300.0 64.0 L 299.0 67.0 L 302.0 68.0 L 305.0 72.0 L 312.0 68.0 L 312.0 64.0 L 315.0 65.0 L 317.0 63.0 L 321.0 66.0 L 320.0 70.0 L 322.0 71.0 L 321.0 75.0 L 316.0 80.0 L 315.0 78.0 L 309.0 78.0 L 308.0 80.0 L 305.0 80.0 L 304.0 78.0 L 299.0 78.0 L 298.0 80.0 L 289.0 80.0 L 288.0 78.0 L 286.0 78.0 L 282.0 81.0 L 274.0 80.0 L 273.0 82.0 L 263.0 81.0 L 262.0 80.0 L 264.0 76.0 Z'},
+    {id:'piece_02',x:27,y:179,w:138,h:205,path:'M 59.4 193.3 L 60.0 195.0 L 57.0 196.0 L 53.0 201.0 L 52.0 207.0 L 27.0 207.0 L 29.0 211.0 L 43.0 222.0 L 41.0 235.0 L 37.0 239.0 L 38.0 242.0 L 36.0 253.0 L 31.0 256.0 L 31.0 259.0 L 34.0 260.0 L 34.0 265.0 L 30.0 269.0 L 32.0 275.0 L 34.0 276.0 L 31.0 278.0 L 31.0 280.0 L 35.0 288.0 L 35.0 307.0 L 38.0 319.0 L 40.0 321.0 L 42.0 333.0 L 47.0 344.0 L 44.0 348.0 L 45.0 354.0 L 47.0 356.0 L 55.0 354.0 L 59.0 357.0 L 59.0 374.0 L 61.0 378.0 L 66.0 378.0 L 70.0 383.0 L 73.0 383.0 L 75.0 376.0 L 68.0 368.0 L 68.0 366.0 L 71.0 363.0 L 71.0 359.0 L 67.0 357.0 L 71.0 350.0 L 70.0 346.0 L 73.0 345.0 L 76.0 341.0 L 78.0 341.0 L 81.0 337.0 L 85.0 337.0 L 88.0 333.0 L 92.0 333.0 L 93.0 329.0 L 101.0 322.0 L 99.0 318.0 L 113.0 311.0 L 114.0 305.0 L 111.0 303.0 L 111.0 286.0 L 109.0 285.0 L 109.0 274.0 L 111.0 274.0 L 120.0 265.0 L 127.0 264.0 L 130.0 260.0 L 134.0 259.0 L 136.0 256.0 L 139.0 256.0 L 140.0 252.0 L 145.0 248.0 L 145.0 246.0 L 152.0 243.0 L 151.0 228.0 L 148.0 223.0 L 144.0 220.0 L 144.0 214.0 L 140.0 208.0 L 141.0 202.0 L 138.0 200.0 L 140.0 198.0 L 144.0 200.0 L 150.0 199.0 L 151.0 196.0 L 164.0 185.0 L 163.1 180.7 L 129.2 187.8 L 103.3 191.7 L 83.9 193.3 Z M 139.0 223.0 L 142.0 232.0 L 145.0 234.0 L 145.0 236.0 L 141.0 238.0 L 126.0 255.0 L 123.0 255.0 L 120.0 260.0 L 113.0 262.0 L 112.0 259.0 L 114.0 253.0 L 120.0 246.0 L 120.0 244.0 L 117.0 241.0 L 119.0 240.0 L 118.0 238.0 L 123.0 228.0 L 125.0 226.0 L 130.0 226.0 L 132.0 222.0 L 136.0 224.0 Z'},
+    {id:'piece_03',x:86,y:164,w:431,h:238,path:'M 449.0 180.0 L 438.0 181.0 L 436.0 183.0 L 431.0 182.0 L 427.0 183.0 L 426.0 186.0 L 422.0 189.0 L 420.0 195.0 L 424.0 197.0 L 419.0 200.0 L 418.0 204.0 L 416.0 203.0 L 413.0 206.0 L 399.0 235.0 L 402.0 242.0 L 406.0 245.0 L 406.0 248.0 L 410.0 250.0 L 409.0 254.0 L 416.0 258.0 L 420.0 267.0 L 416.0 270.0 L 417.0 274.0 L 415.0 277.0 L 412.0 278.0 L 412.0 282.0 L 409.0 284.0 L 410.0 287.0 L 415.0 292.0 L 421.0 291.0 L 427.0 297.0 L 430.0 295.0 L 432.0 296.0 L 430.0 298.0 L 433.0 302.0 L 434.0 307.0 L 429.0 313.0 L 436.0 320.0 L 433.0 322.0 L 434.0 330.0 L 432.0 331.0 L 427.0 329.0 L 425.0 331.0 L 425.0 333.0 L 428.0 334.0 L 429.0 338.0 L 431.0 339.0 L 430.0 346.0 L 427.0 349.0 L 425.0 355.0 L 418.0 360.0 L 415.0 359.0 L 413.0 355.0 L 409.0 355.0 L 406.0 359.0 L 392.0 359.0 L 391.0 362.0 L 386.0 365.0 L 380.0 364.0 L 375.0 368.0 L 368.0 366.0 L 366.0 369.0 L 358.0 370.0 L 358.0 375.0 L 361.0 379.0 L 362.0 384.0 L 361.0 395.0 L 355.0 396.0 L 337.0 381.0 L 348.0 374.0 L 351.0 366.0 L 366.0 363.0 L 376.0 355.0 L 375.0 346.0 L 381.0 339.0 L 380.0 336.0 L 385.0 334.0 L 395.0 324.0 L 397.0 324.0 L 403.0 315.0 L 403.0 298.0 L 398.0 291.0 L 395.0 293.0 L 392.0 291.0 L 392.0 285.0 L 390.0 285.0 L 387.0 282.0 L 388.0 274.0 L 380.0 265.0 L 379.0 261.0 L 373.0 256.0 L 357.0 234.0 L 357.0 232.0 L 348.0 224.0 L 348.0 219.0 L 343.0 216.0 L 343.0 213.0 L 339.0 211.0 L 337.0 207.0 L 333.0 206.0 L 330.0 200.0 L 327.0 200.0 L 312.0 186.0 L 310.0 186.0 L 298.0 176.0 L 296.0 176.0 L 291.0 170.0 L 284.5 166.3 L 265.0 165.6 L 232.7 167.4 L 195.2 173.6 L 192.0 179.0 L 192.0 182.0 L 189.0 185.0 L 186.0 195.0 L 182.0 200.0 L 182.0 203.0 L 179.0 205.0 L 178.0 209.0 L 173.0 214.0 L 173.0 217.0 L 162.0 234.0 L 160.0 240.0 L 154.0 245.0 L 155.0 247.0 L 153.0 253.0 L 146.0 264.0 L 146.0 267.0 L 143.0 271.0 L 142.0 277.0 L 139.0 280.0 L 138.0 284.0 L 130.0 285.0 L 128.0 288.0 L 123.0 289.0 L 124.0 293.0 L 129.0 295.0 L 127.0 302.0 L 128.0 307.0 L 124.0 319.0 L 119.0 325.0 L 118.0 329.0 L 114.0 332.0 L 118.0 345.0 L 120.0 346.0 L 120.0 348.0 L 122.0 347.0 L 126.0 352.0 L 122.0 360.0 L 122.0 364.0 L 118.0 366.0 L 116.0 372.0 L 102.0 386.0 L 94.0 392.0 L 90.0 393.0 L 87.5 396.2 L 142.8 380.5 L 142.0 373.0 L 140.0 371.0 L 141.0 365.0 L 144.0 362.0 L 149.0 362.0 L 150.0 365.0 L 157.0 367.0 L 160.0 371.0 L 167.0 373.0 L 169.0 375.0 L 193.9 373.3 L 219.7 375.7 L 239.1 379.8 L 297.3 396.3 L 316.7 399.8 L 329.7 401.0 L 349.1 400.8 L 368.5 398.3 L 387.9 393.8 L 439.6 379.0 L 459.0 375.1 L 478.4 373.3 L 495.8 373.8 L 498.0 365.0 L 502.0 363.0 L 501.0 350.0 L 505.0 349.0 L 506.0 347.0 L 514.0 345.0 L 516.0 342.0 L 511.0 335.0 L 508.0 335.0 L 504.0 332.0 L 503.0 325.0 L 505.0 309.0 L 501.0 294.0 L 500.0 279.0 L 497.0 271.0 L 495.0 270.0 L 496.0 266.0 L 489.0 249.0 L 489.0 244.0 L 487.0 243.0 L 482.0 233.0 L 483.0 231.0 L 481.0 230.0 L 481.0 224.0 L 475.0 222.0 L 476.0 217.0 L 474.0 215.0 L 465.0 213.0 L 465.0 209.0 L 452.0 194.0 Z'},
+    {id:'piece_04',x:14,y:372,w:264,h:290,path:'M 87.5 396.2 L 80.0 402.0 L 67.0 404.0 L 65.0 408.0 L 56.0 412.0 L 51.0 411.0 L 47.0 415.0 L 36.0 420.0 L 33.0 424.0 L 29.0 425.0 L 26.0 429.0 L 22.0 430.0 L 15.0 445.0 L 14.0 453.0 L 16.0 460.0 L 18.0 462.0 L 22.0 459.0 L 23.0 460.0 L 22.0 464.0 L 26.0 473.0 L 39.0 486.0 L 52.0 505.0 L 55.0 504.0 L 55.0 497.0 L 62.0 485.0 L 65.0 493.0 L 69.0 497.0 L 73.0 497.0 L 78.0 500.0 L 89.0 500.0 L 91.0 496.0 L 89.0 489.0 L 87.0 487.0 L 89.0 480.0 L 91.0 480.0 L 93.0 485.0 L 101.0 492.0 L 94.0 501.0 L 87.0 505.0 L 87.0 508.0 L 77.0 520.0 L 71.0 537.0 L 72.0 541.0 L 76.0 541.0 L 85.0 532.0 L 99.0 523.0 L 102.0 523.0 L 114.0 517.0 L 120.0 517.0 L 121.0 515.0 L 129.0 514.0 L 132.0 516.0 L 132.0 519.0 L 116.0 538.0 L 116.0 541.0 L 109.0 551.0 L 109.0 555.0 L 103.0 566.0 L 107.0 570.0 L 105.0 575.0 L 107.0 577.0 L 106.0 585.0 L 109.0 587.0 L 109.0 590.0 L 113.0 594.0 L 115.0 594.0 L 116.0 597.0 L 129.0 608.0 L 135.0 607.0 L 138.0 610.0 L 143.0 611.0 L 146.0 616.0 L 150.0 617.0 L 150.0 620.0 L 147.0 625.0 L 147.0 631.0 L 144.0 637.0 L 146.0 640.0 L 149.0 640.0 L 151.0 638.0 L 151.0 634.0 L 157.0 631.0 L 156.0 627.0 L 159.0 623.0 L 158.0 617.0 L 164.0 613.0 L 175.0 622.0 L 195.0 631.0 L 193.0 638.0 L 195.0 640.0 L 195.0 644.0 L 197.0 645.0 L 197.0 647.0 L 192.0 647.0 L 187.0 651.0 L 197.0 658.0 L 200.0 659.0 L 203.0 655.0 L 208.0 655.0 L 207.0 644.0 L 209.0 640.0 L 213.0 640.0 L 228.0 645.0 L 231.0 648.0 L 231.0 656.0 L 235.0 656.0 L 238.0 658.0 L 241.0 655.0 L 245.0 655.0 L 249.0 660.0 L 253.7 660.7 L 251.0 640.9 L 250.3 621.7 L 251.7 602.6 L 254.5 586.1 L 249.2 571.6 L 257.2 574.2 L 272.3 516.7 L 275.6 497.6 L 277.0 478.5 L 276.3 459.3 L 273.7 440.1 L 261.6 386.2 L 239.1 379.8 L 219.7 375.7 L 200.3 373.5 L 180.9 373.7 L 169.0 375.0 L 172.0 378.0 L 180.0 380.0 L 181.0 382.0 L 170.0 390.0 L 166.0 391.0 L 164.0 394.0 L 159.0 393.0 L 153.0 398.0 L 148.0 398.0 L 145.0 395.0 L 145.0 387.0 L 142.8 380.5 Z M 124.0 573.0 L 124.0 571.0 L 127.0 569.0 L 127.0 565.0 L 135.0 557.0 L 148.0 551.0 L 161.0 552.0 L 161.0 555.0 L 159.0 556.0 L 159.0 559.0 L 155.0 562.0 L 155.0 567.0 L 151.0 570.0 L 151.0 573.0 L 144.0 575.0 L 144.0 580.0 L 150.0 581.0 L 149.0 584.0 L 151.0 585.0 L 154.0 597.0 L 153.0 602.0 L 156.0 605.0 L 155.0 612.0 L 153.0 612.0 L 148.0 606.0 L 143.0 605.0 L 145.0 599.0 L 140.0 598.0 L 137.0 595.0 L 133.0 595.0 L 134.0 582.0 L 130.0 581.0 Z M 118.0 445.0 L 117.0 453.0 L 115.0 455.0 L 116.0 457.0 L 114.0 458.0 L 113.0 456.0 L 111.0 456.0 L 106.0 459.0 L 106.0 463.0 L 109.0 464.0 L 109.0 471.0 L 106.0 475.0 L 101.0 475.0 L 98.0 471.0 L 100.0 460.0 L 103.0 458.0 L 103.0 454.0 L 106.0 452.0 L 108.0 445.0 L 112.0 440.0 L 115.0 440.0 Z'},
+    {id:'piece_05',x:256,y:372,w:241,h:222,path:'M 257.2 574.2 L 284.4 583.4 L 303.8 588.8 L 323.2 592.1 L 342.6 592.8 L 355.5 591.7 L 374.9 588.0 L 426.9 571.3 L 424.0 568.0 L 421.0 568.0 L 420.0 566.0 L 410.0 561.0 L 412.0 559.0 L 410.0 553.0 L 408.0 554.0 L 404.0 551.0 L 398.0 553.0 L 398.0 547.0 L 392.0 544.0 L 390.0 540.0 L 384.0 536.0 L 384.0 531.0 L 378.0 531.0 L 365.0 518.0 L 364.0 515.0 L 373.0 514.0 L 379.0 519.0 L 385.0 520.0 L 389.0 528.0 L 394.0 528.0 L 396.0 526.0 L 404.0 527.0 L 414.0 524.0 L 424.0 512.0 L 427.0 504.0 L 427.0 483.0 L 424.0 480.0 L 424.0 473.0 L 429.0 468.0 L 435.0 468.0 L 437.0 470.0 L 439.0 468.0 L 444.0 468.0 L 447.0 470.0 L 448.0 473.0 L 452.0 473.0 L 458.0 469.0 L 460.0 470.0 L 461.0 463.0 L 465.0 458.0 L 478.0 452.0 L 480.0 449.0 L 485.0 448.0 L 485.0 441.0 L 495.0 426.0 L 490.0 416.0 L 489.0 410.0 L 492.0 408.0 L 492.0 405.0 L 490.0 403.0 L 495.0 396.0 L 496.0 390.0 L 491.0 390.0 L 490.0 387.0 L 495.8 373.8 L 471.9 373.7 L 452.5 376.2 L 433.1 380.7 L 381.4 395.5 L 362.0 399.4 L 349.1 400.8 L 329.7 401.0 L 310.3 398.9 L 290.9 394.7 L 261.6 386.2 L 273.7 440.1 L 276.3 459.3 L 277.0 478.5 L 275.6 497.6 L 272.3 516.7 Z M 481.0 415.0 L 483.0 421.0 L 486.0 422.0 L 482.0 427.0 L 480.0 427.0 L 476.0 432.0 L 471.0 431.0 L 471.0 422.0 L 476.0 419.0 L 477.0 415.0 Z M 350.0 419.0 L 354.0 418.0 L 356.0 414.0 L 362.0 413.0 L 362.0 411.0 L 365.0 410.0 L 365.0 418.0 L 369.0 421.0 L 369.0 425.0 L 373.0 428.0 L 374.0 436.0 L 366.0 437.0 L 359.0 430.0 L 357.0 430.0 L 355.0 426.0 L 351.0 424.0 Z'},
+    {id:'piece_06',x:185,y:570,w:258,h:342,path:'M 258.0 758.0 L 260.0 767.0 L 257.0 768.0 L 257.0 771.0 L 259.0 775.0 L 263.0 777.0 L 264.0 781.0 L 268.0 783.0 L 272.0 773.0 L 269.0 764.0 L 270.0 756.0 L 268.0 753.0 L 284.0 747.0 L 284.0 743.0 L 293.0 743.0 L 297.0 738.0 L 302.0 736.0 L 308.0 729.0 L 311.0 713.0 L 314.0 713.0 L 317.0 708.0 L 323.0 707.0 L 328.0 703.0 L 329.0 700.0 L 336.0 699.0 L 339.0 695.0 L 346.0 696.0 L 350.0 692.0 L 352.0 692.0 L 357.0 686.0 L 360.0 677.0 L 357.0 668.0 L 358.0 665.0 L 354.0 663.0 L 353.0 659.0 L 349.0 654.0 L 349.0 650.0 L 345.0 650.0 L 342.0 645.0 L 339.0 645.0 L 338.0 642.0 L 336.0 642.0 L 329.0 637.0 L 324.0 637.0 L 322.0 633.0 L 316.0 628.0 L 316.0 621.0 L 319.0 619.0 L 321.0 615.0 L 337.0 616.0 L 342.0 622.0 L 342.0 629.0 L 352.0 636.0 L 357.0 634.0 L 357.0 618.0 L 359.0 616.0 L 370.0 616.0 L 387.0 629.0 L 389.0 635.0 L 394.0 637.0 L 405.0 653.0 L 405.0 655.0 L 410.0 658.0 L 414.0 664.0 L 420.0 661.0 L 425.0 649.0 L 428.0 647.0 L 437.0 631.0 L 439.0 630.0 L 438.0 624.0 L 441.0 621.0 L 442.0 599.0 L 440.0 590.0 L 437.0 586.0 L 437.0 583.0 L 426.9 571.3 L 374.9 588.0 L 355.5 591.7 L 342.6 592.8 L 323.2 592.1 L 303.8 588.8 L 284.4 583.4 L 257.2 574.2 L 251.7 602.6 L 250.3 626.5 L 252.8 655.3 L 253.7 660.7 L 256.0 661.0 L 257.0 670.0 L 253.0 676.0 L 247.0 681.0 L 241.0 683.0 L 235.0 690.0 L 234.0 689.0 L 230.0 692.0 L 226.0 692.0 L 213.0 700.0 L 206.0 706.0 L 196.0 719.0 L 195.0 723.0 L 192.0 725.0 L 192.0 745.0 L 189.0 749.0 L 191.0 755.0 L 185.0 764.0 L 185.0 773.0 L 187.0 778.0 L 189.0 779.0 L 189.0 784.0 L 193.0 788.0 L 198.0 789.0 L 206.0 797.0 L 228.0 801.0 L 230.0 799.0 L 237.0 808.0 L 241.0 810.0 L 240.0 813.0 L 242.0 816.0 L 249.0 817.0 L 251.0 815.0 L 258.0 820.0 L 263.0 819.0 L 275.0 824.0 L 279.0 828.0 L 279.0 830.0 L 287.0 836.0 L 290.0 841.0 L 290.0 850.0 L 285.0 857.0 L 280.0 857.0 L 275.0 863.0 L 271.0 864.0 L 267.0 873.0 L 263.0 877.0 L 260.0 885.0 L 260.0 889.0 L 266.0 896.0 L 268.0 896.0 L 275.0 903.0 L 277.0 910.0 L 280.0 911.0 L 282.0 910.0 L 282.0 899.0 L 279.0 898.0 L 278.0 895.0 L 272.0 891.0 L 268.0 886.0 L 271.0 884.0 L 271.0 879.0 L 275.0 876.0 L 286.0 875.0 L 305.0 862.0 L 305.0 860.0 L 310.0 855.0 L 311.0 851.0 L 315.0 848.0 L 315.0 832.0 L 313.0 831.0 L 313.0 828.0 L 316.0 826.0 L 316.0 823.0 L 314.0 821.0 L 308.0 823.0 L 295.0 811.0 L 290.0 811.0 L 290.0 808.0 L 288.0 806.0 L 285.0 806.0 L 270.0 798.0 L 266.0 798.0 L 263.0 794.0 L 260.0 793.0 L 259.0 787.0 L 247.0 786.0 L 243.0 781.0 L 244.0 779.0 L 241.0 777.0 L 241.0 766.0 L 245.0 761.0 L 249.0 760.0 L 250.0 758.0 Z M 344.0 661.0 L 349.0 671.0 L 346.0 675.0 L 349.0 680.0 L 345.0 684.0 L 342.0 684.0 L 340.0 680.0 L 336.0 679.0 L 337.0 677.0 L 335.0 667.0 L 339.0 660.0 Z'}
   ]},
 ];
 function pzKey(pn){return pn.id+'-v'+pn.ver;}
-function pzState(save,pn){const p=(save&&save.puzzles&&save.puzzles[pzKey(pn)])||{got:[],placed:[]};return{got:p.got||[],placed:p.placed||[],cleared:!!p.cleared};}
+function pzState(save,pn){
+  let p=save&&save.puzzles&&save.puzzles[pzKey(pn)];
+  if(!p&&pn.migrateFrom&&save&&save.puzzles){const o=save.puzzles[pn.id+'-v'+pn.migrateFrom];if(o){const n=Math.min(pn.pieces.length,(o.got||[]).length),m=Math.min(n,(o.placed||[]).length);p={got:Array.from({length:n},(_,i)=>i),placed:Array.from({length:m},(_,i)=>i),cleared:!!o.cleared};}} // v207 旧verの枚数だけ引き継ぐ
+  p=p||{got:[],placed:[]};return{got:p.got||[],placed:p.placed||[],cleared:!!p.cleared};}
 function pzWrite(s,pn,st){s.puzzles={...(s.puzzles||{}),[pzKey(pn)]:st};return s;}
 function pzActive(save){const sel=save&&save.pzSel&&PANELS.find(pn=>pn.id===save.pzSel);if(sel)return sel;return PANELS.find(pn=>!pzState(save,pn).cleared)||PANELS[PANELS.length-1];} // v205 選んだパネル優先。なければ最初の未クリア
 function pzImg(pn,i){return pn.dir+pn.pieces[i].id+'.webp';}
